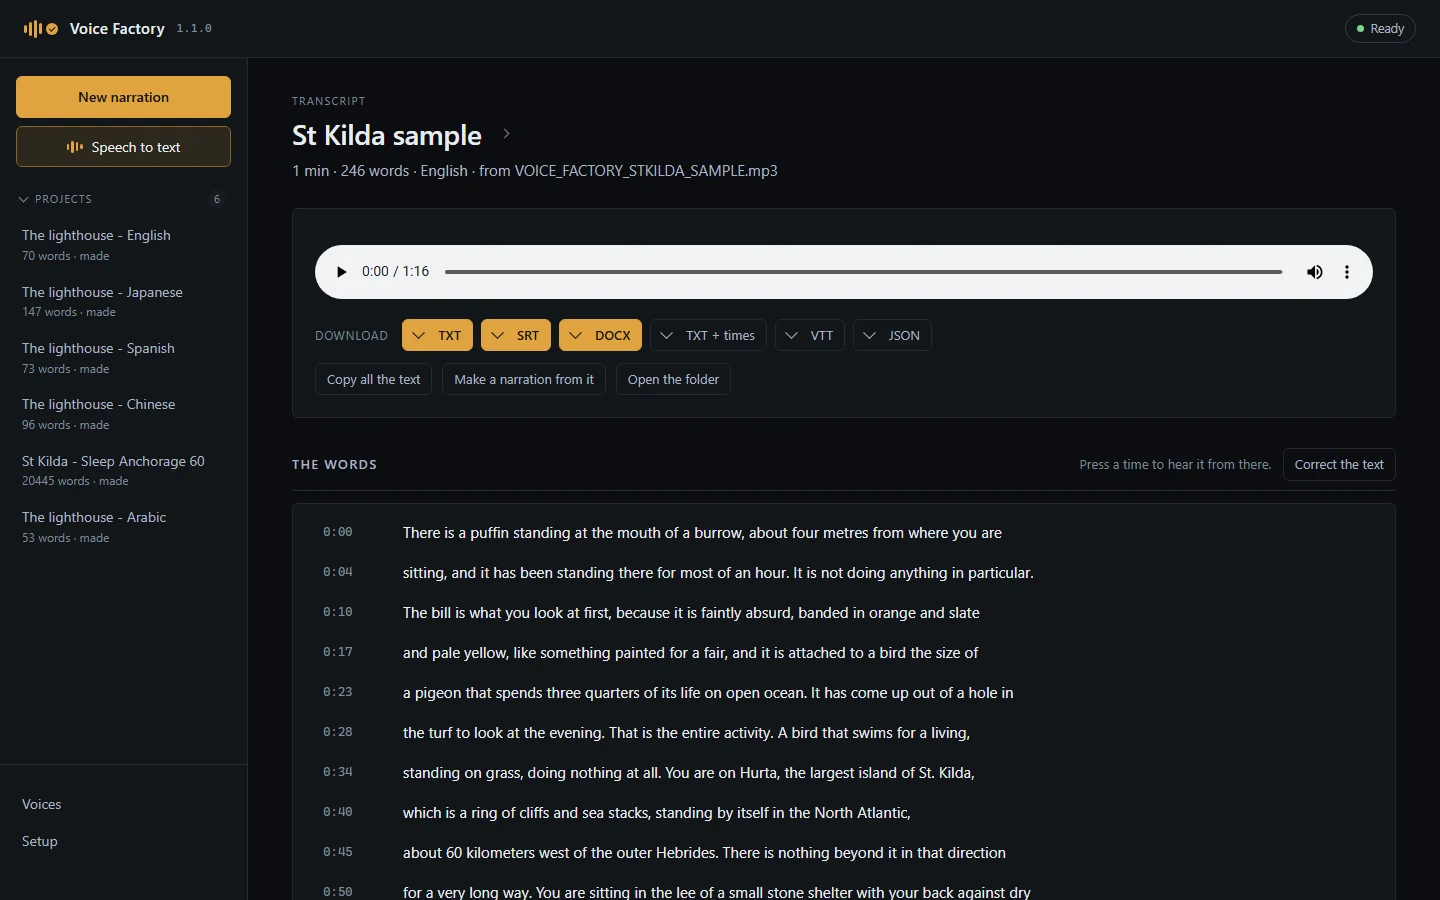
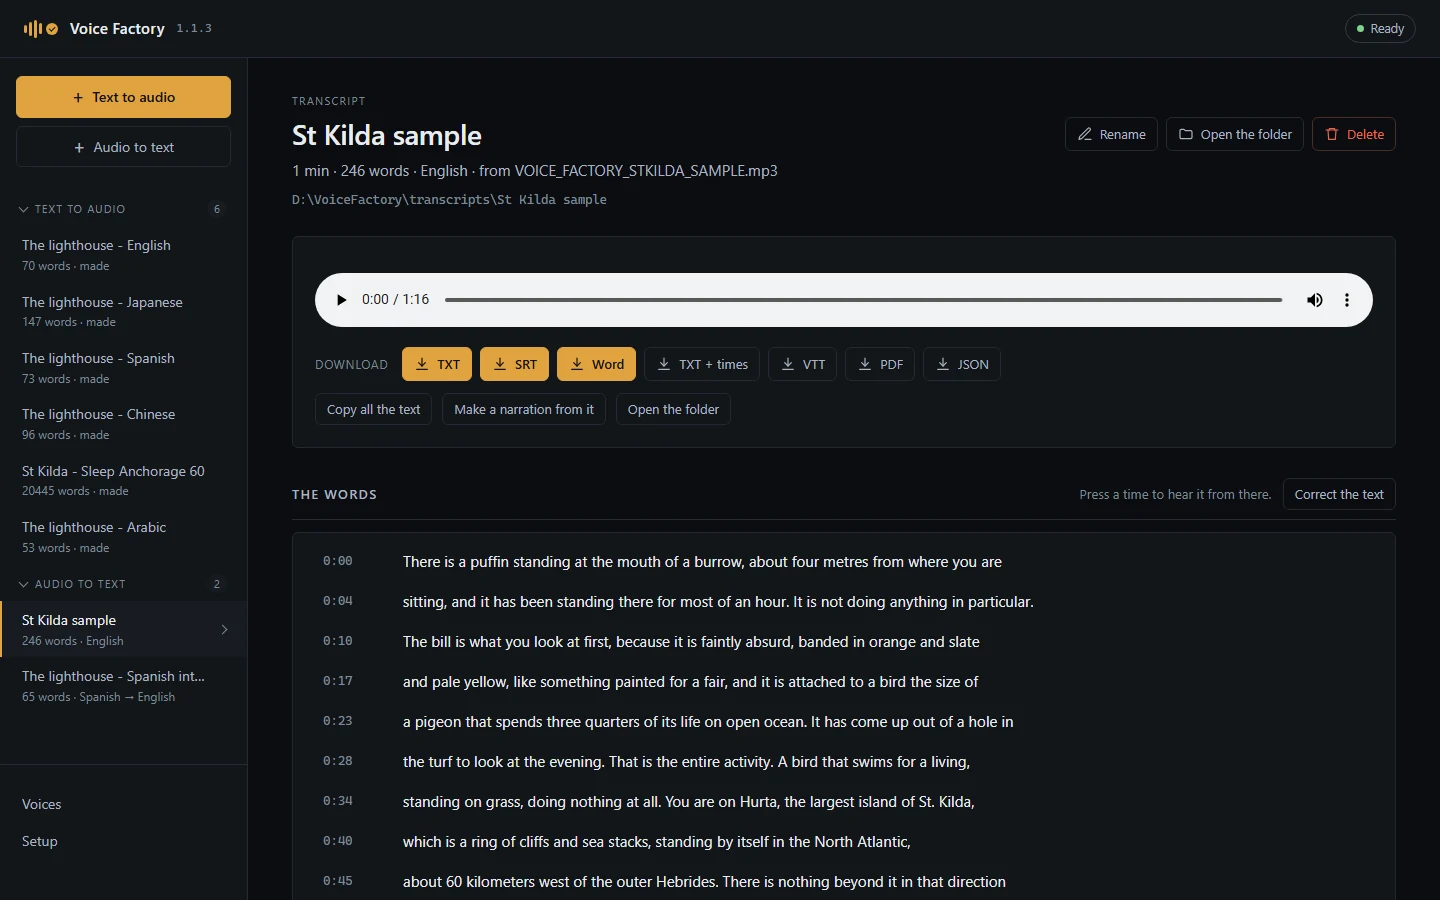
Voice Factory 1.1.3: Text to audio / Audio to text, controls in sight, the chosen files in each transcript's folder, PDF; pictures of 1.1.3

diff --git a/docs/voice-factory.html b/docs/voice-factory.html
@@ -415,7 +415,7 @@ if (location.protocol === "http:" && /(^|\.)local-factories\.com$/.test(location
           <div class="txt">
             <h3>Drop a recording, get the words</h3>
             <p>Interviews, podcasts, lectures, videos — any length, in more than thirty languages, detected by itself. Or have it written in another language: a recording in Spanish comes out in English, an English one in Arabic, French or Japanese - translated on your PC, every line keeping its time. Correct it on the page, press any line to hear it from there, or make a narration from it in one of your voices.</p>
-            <div class="langs fmts"><span>Text</span><span>Text with times</span><span>SRT</span><span>VTT</span><span>Word</span><span>JSON</span><span>Into another language</span></div>
+            <div class="langs fmts"><span>Text</span><span>Text with times</span><span>SRT</span><span>VTT</span><span>Word</span><span>PDF</span><span>JSON</span><span>Into another language</span></div>
           </div>
           <div class="shot"><img src="img/vf-stt.webp" alt="Voice Factory's speech to text: a recording written out line by line with its times, ready to download as text, subtitles or a Word document" width="1440" height="900" loading="lazy"></div>
         </div>
